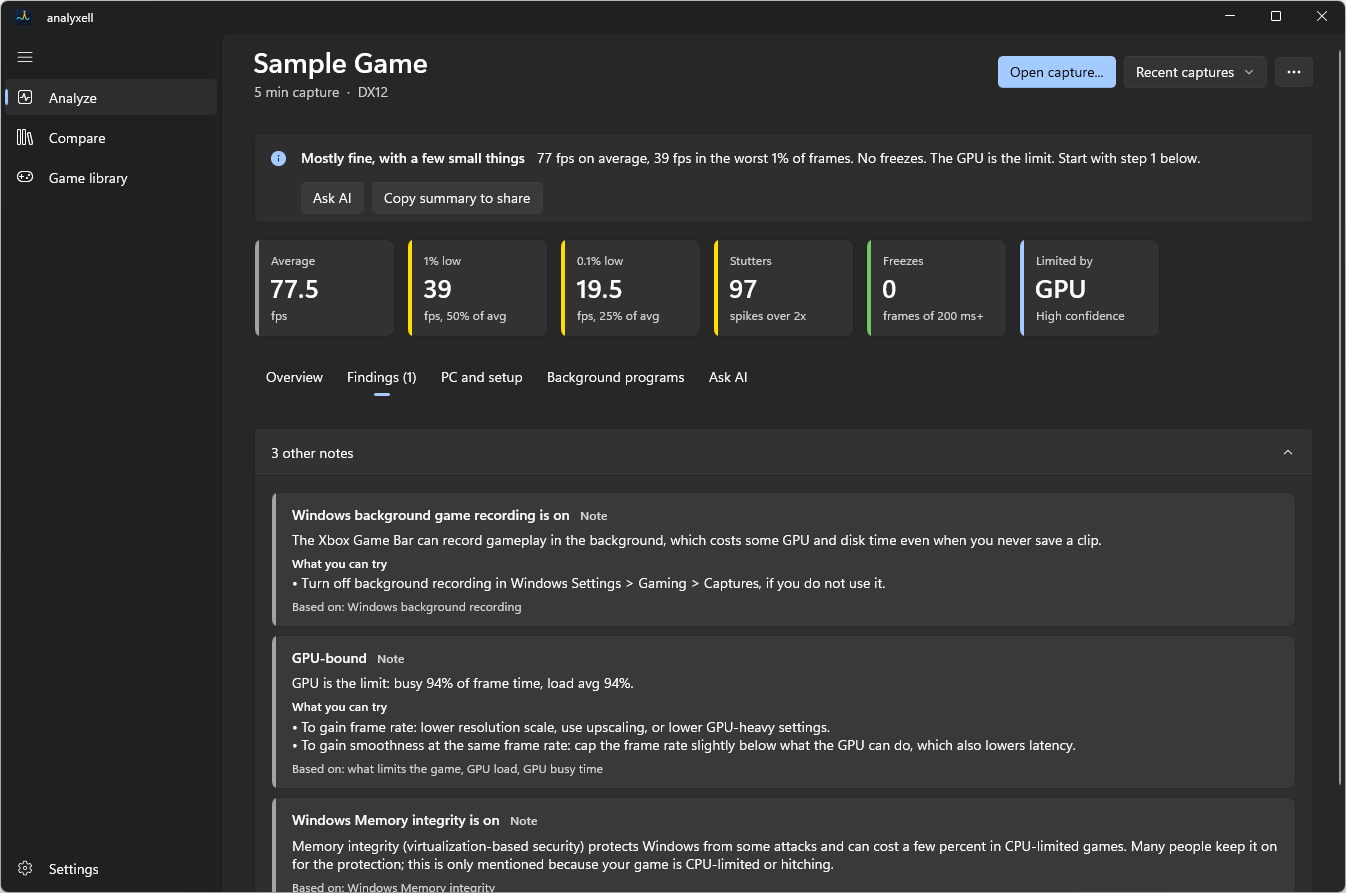
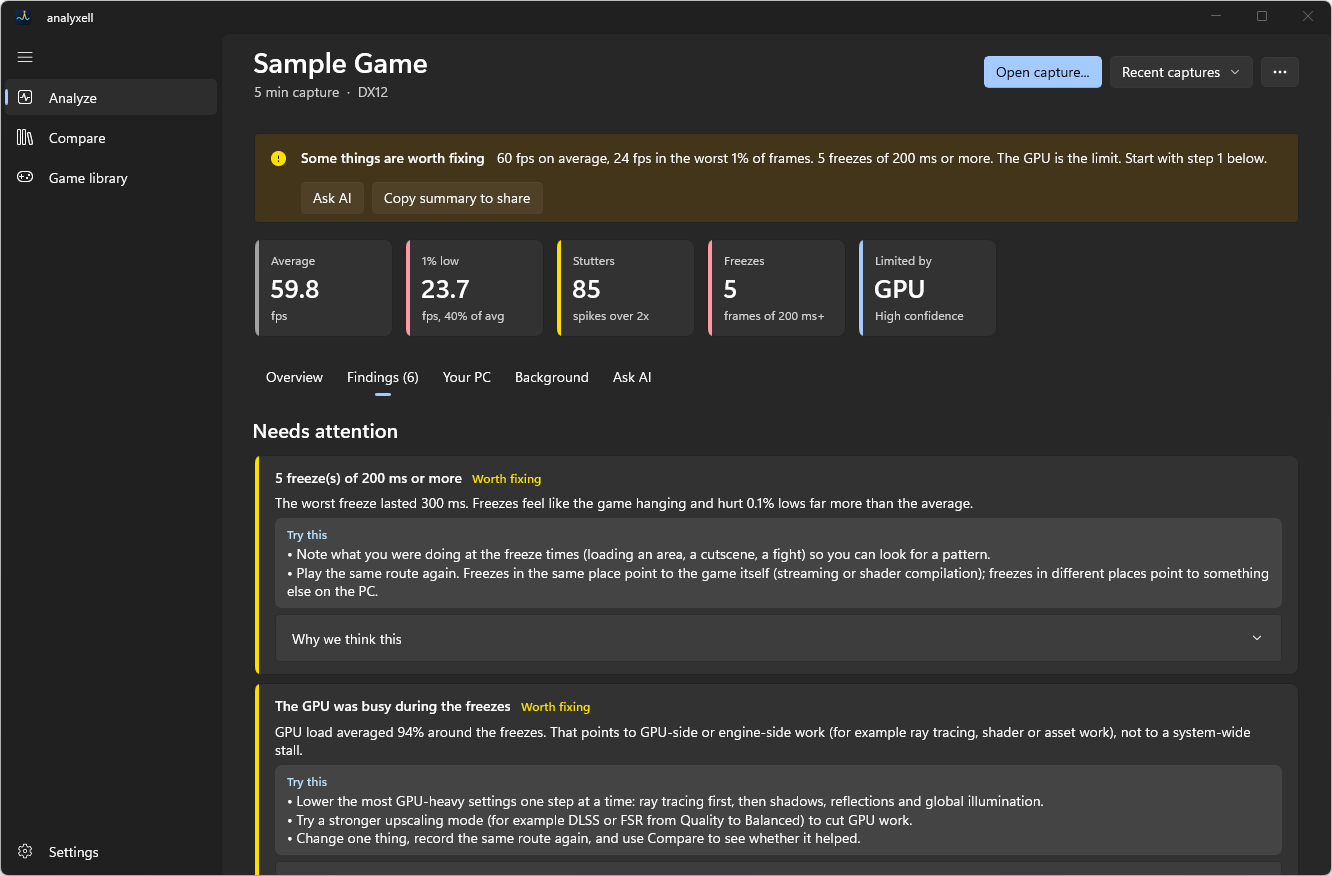
Release 1.1.0: calmer Analyze page, colour-coded Compare results
Overview shows one "Start here" step, drops the 0.1% low card, and shortens
tab names. Findings get a "Try this" box with evidence folded away. Compare's
Result column uses coloured icons and "For reference". Docs and screenshots
refreshed; UI smoke verdict check no longer depends on this PC's findings.

diff --git a/src/Analyxell/Pages/AnalyzePage.xaml b/src/Analyxell/Pages/AnalyzePage.xaml
@@ -63,15 +63,27 @@
                                 Foreground="{x:Bind svc:LevelBrushes.Label(Level), Mode=OneTime}" />
                         </StackPanel>
                         <TextBlock Text="{x:Bind Detail, Mode=OneTime}" TextWrapping="Wrap" />
-                        <StackPanel Spacing="2" Visibility="{x:Bind HasSuggestions, Mode=OneTime}">
-                            <TextBlock Text="What you can try" Style="{StaticResource CaptionTextBlockStyle}" FontWeight="SemiBold" />
-                            <TextBlock Text="{x:Bind Suggestions, Mode=OneTime}" TextWrapping="Wrap" />
-                        </StackPanel>
-                        <TextBlock
-                            Text="{x:Bind Evidence, Mode=OneTime}"
-                            TextWrapping="Wrap"
-                            Style="{StaticResource CaptionTextBlockStyle}"
-                            Foreground="{ThemeResource TextFillColorSecondaryBrush}" />
+                        <Border
+                            Visibility="{x:Bind HasSuggestions, Mode=OneTime}"
+                            Padding="12,8"
+                            CornerRadius="6"
+                            Background="{ThemeResource ControlFillColorSecondaryBrush}">
+                            <StackPanel Spacing="2">
+                                <TextBlock Text="Try this" Style="{StaticResource CaptionTextBlockStyle}" FontWeight="SemiBold" Foreground="{ThemeResource AccentTextFillColorPrimaryBrush}" />
+                                <TextBlock Text="{x:Bind Suggestions, Mode=OneTime}" TextWrapping="Wrap" />
+                            </StackPanel>
+                        </Border>
+                        <Expander
+                            Header="Why we think this"
+                            Padding="12,6"
+                            HorizontalAlignment="Stretch"
+                            HorizontalContentAlignment="Stretch">
+                            <TextBlock
+                                Text="{x:Bind Evidence, Mode=OneTime}"
+                                TextWrapping="Wrap"
+                                Style="{StaticResource CaptionTextBlockStyle}"
+                                Foreground="{ThemeResource TextFillColorSecondaryBrush}" />
+                        </Expander>
                     </StackPanel>
                 </Grid>
             </Border>
@@ -293,8 +305,8 @@
                 <SelectorBar x:Name="Tabs" AutomationProperties.AutomationId="AnalyzeTabs" SelectionChanged="Tabs_SelectionChanged">
                     <SelectorBarItem x:Name="TabOverview" AutomationProperties.AutomationId="TabOverview" Text="Overview" Tag="Overview" IsSelected="True" />
                     <SelectorBarItem x:Name="TabFindings" AutomationProperties.AutomationId="TabFindings" Text="Findings" Tag="Findings" />
-                    <SelectorBarItem x:Name="TabPc" AutomationProperties.AutomationId="TabPc" Text="PC and setup" Tag="Pc" />
-                    <SelectorBarItem x:Name="TabBackground" AutomationProperties.AutomationId="TabBackground" Text="Background programs" Tag="Background" />
+                    <SelectorBarItem x:Name="TabPc" AutomationProperties.AutomationId="TabPc" Text="Your PC" Tag="Pc" />
+                    <SelectorBarItem x:Name="TabBackground" AutomationProperties.AutomationId="TabBackground" Text="Background" Tag="Background" />
                     <SelectorBarItem x:Name="TabAi" AutomationProperties.AutomationId="TabAi" Text="Ask AI" Tag="Ai" />
                 </SelectorBar>
 
@@ -310,12 +322,12 @@
                         BorderBrush="{ThemeResource CardStrokeColorDefaultBrush}"
                         BorderThickness="1">
                         <StackPanel Spacing="10">
-                            <TextBlock Text="What you can do" Style="{StaticResource SubtitleTextBlockStyle}" />
+                            <TextBlock Text="Start here" Style="{StaticResource SubtitleTextBlockStyle}" />
                             <TextBlock
                                 TextWrapping="Wrap"
                                 Style="{StaticResource CaptionTextBlockStyle}"
                                 Foreground="{ThemeResource TextFillColorSecondaryBrush}"
-                                Text="Most important first. Try one at a time, record the same route again, then use Compare." />
+                                Text="The most useful thing to try first. Then record the same route again and use Compare." />
                             <ItemsControl ItemsSource="{x:Bind ViewModel.TopSteps, Mode=OneWay}" ItemTemplate="{StaticResource NextStepTemplate}" />
                             <Expander
                                 AutomationProperties.AutomationId="MoreStepsExpander"

diff --git a/src/Analyxell/Pages/ComparePage.xaml b/src/Analyxell/Pages/ComparePage.xaml
@@ -84,7 +84,7 @@
                                 <ColumnDefinition Width="*" />
                                 <ColumnDefinition Width="*" />
                                 <ColumnDefinition Width="1.4*" />
-                                <ColumnDefinition Width="Auto" MinWidth="90" />
+                                <ColumnDefinition Width="Auto" MinWidth="120" />
                             </Grid.ColumnDefinitions>
                             <TextBlock Text="Measure" Style="{StaticResource CaptionTextBlockStyle}" Foreground="{ThemeResource TextFillColorSecondaryBrush}" />
                             <TextBlock Grid.Column="1" Text="A" Style="{StaticResource CaptionTextBlockStyle}" Foreground="{ThemeResource TextFillColorSecondaryBrush}" />
@@ -101,13 +101,16 @@
                                             <ColumnDefinition Width="*" />
                                             <ColumnDefinition Width="*" />
                                             <ColumnDefinition Width="1.4*" />
-                                            <ColumnDefinition Width="Auto" MinWidth="90" />
+                                            <ColumnDefinition Width="Auto" MinWidth="120" />
                                         </Grid.ColumnDefinitions>
                                         <TextBlock Text="{x:Bind Label, Mode=OneTime}" />
                                         <TextBlock Grid.Column="1" Text="{x:Bind A, Mode=OneTime}" />
                                         <TextBlock Grid.Column="2" Text="{x:Bind B, Mode=OneTime}" />
                                         <TextBlock Grid.Column="3" Text="{x:Bind Delta, Mode=OneTime}" />
-                                        <TextBlock Grid.Column="4" Text="{x:Bind Verdict, Mode=OneTime}" />
+                                        <StackPanel Grid.Column="4" Orientation="Horizontal" Spacing="6" VerticalAlignment="Center">
+                                            <FontIcon Glyph="{x:Bind Glyph, Mode=OneTime}" FontSize="14" Foreground="{x:Bind svc:LevelBrushes.Label(Level), Mode=OneTime}" />
+                                            <TextBlock Text="{x:Bind Verdict, Mode=OneTime}" FontWeight="SemiBold" Foreground="{x:Bind svc:LevelBrushes.Label(Level), Mode=OneTime}" />
+                                        </StackPanel>
                                     </Grid>
                                 </DataTemplate>
                             </ItemsControl.ItemTemplate>

diff --git a/src/Analyxell/ViewModels/AnalyzeViewModel.cs b/src/Analyxell/ViewModels/AnalyzeViewModel.cs
@@ -482,7 +482,6 @@ public sealed partial class AnalyzeViewModel : ObservableObject
 
         var minutes = Math.Max(m.DurationSec / 60, 0.1);
         Cards.Add(new MetricItem("1% low", F(m.Low1AverageFps), $"fps, {Share(m.Low1AverageFps, m.AverageFps)}", LowLevel(m.Low1AverageFps, m.AverageFps, 30, 45, 0.4, 0.6)));
-        Cards.Add(new MetricItem("0.1% low", F(m.Low01AverageFps), $"fps, {Share(m.Low01AverageFps, m.AverageFps)}", LowLevel(m.Low01AverageFps, m.AverageFps, 15, 25, 0.2, 0.4)));
         Cards.Add(new MetricItem("Stutters", r.Stutters.Count.ToString(CultureInfo.InvariantCulture), "spikes over 2x", r.Stutters.Count == 0 ? MetricLevel.Good : r.Stutters.Count / minutes > 30 ? MetricLevel.Bad : MetricLevel.Warning));
         Cards.Add(new MetricItem("Freezes", r.Freezes.Count.ToString(CultureInfo.InvariantCulture), "frames of 200 ms+", r.Freezes.Count == 0 ? MetricLevel.Good : r.Freezes.Count < 3 ? MetricLevel.Warning : MetricLevel.Bad));
         Cards.Add(new MetricItem("Limited by", Verdict(r.Bottleneck.Verdict), $"{r.Bottleneck.Confidence} confidence", MetricLevel.Focus));
@@ -510,7 +509,7 @@ public sealed partial class AnalyzeViewModel : ObservableObject
         MoreSteps.Clear();
         foreach (var s in r.NextSteps)
         {
-            (TopSteps.Count < 3 ? TopSteps : MoreSteps).Add(new NextStepItem(s.Order.ToString(CultureInfo.InvariantCulture), s.Text, s.FindingTitle, CanTry: capture.ProcessName.Length > 0));
+            (TopSteps.Count < 1 ? TopSteps : MoreSteps).Add(new NextStepItem(s.Order.ToString(CultureInfo.InvariantCulture), s.Text, s.FindingTitle, CanTry: capture.ProcessName.Length > 0));
         }
 
         MoreStepsHeader = MoreSteps.Count == 1 ? "Show 1 more step" : $"Show {MoreSteps.Count} more steps";

diff --git a/src/Analyxell/ViewModels/CompareViewModel.cs b/src/Analyxell/ViewModels/CompareViewModel.cs
@@ -10,7 +10,7 @@ using Microsoft.UI.Xaml.Controls;
 
 namespace Analyxell.ViewModels;
 
-public sealed record CompareRowItem(string Label, string A, string B, string Delta, string Glyph, string Verdict);
+public sealed record CompareRowItem(string Label, string A, string B, string Delta, string Glyph, string Verdict, MetricLevel Level);
 
 public sealed partial class CompareViewModel : ObservableObject
 {
@@ -181,10 +181,13 @@ public sealed partial class CompareViewModel : ObservableObject
                 Fmt(row.A, row.Unit),
                 Fmt(row.B, row.Unit),
                 DeltaText(row),
-                string.Empty,
+                row.HigherIsBetter is null ? "" : row.Improved switch { true => "", false => "", _ => "" },
                 row.HigherIsBetter is null
-                    ? "Context"
-                    : row.Improved switch { true => "\u25B2 Better", false => "\u25BC Worse", _ => "= Same" }));
+                    ? "For reference"
+                    : row.Improved switch { true => "Better", false => "Worse", _ => "Same" },
+                row.HigherIsBetter is null
+                    ? MetricLevel.Neutral
+                    : row.Improved switch { true => MetricLevel.Good, false => MetricLevel.Bad, _ => MetricLevel.Neutral }));
         }
 
         if (cmp.Changes.Count > 0)

diff --git a/docs/user-guide.md b/docs/user-guide.md
@@ -32,26 +32,26 @@ The page leads with a one-line **verdict** (healthy, worth fixing, serious probl
 
 **Above the cards** you may see: a **capture quality** warning (too short, frame-capped, idle, windowed or no sensors); a note about a change you are trying; and "A newer capture was recorded" with an **Open it** button. **Copy summary to share** puts a short, anonymised summary on the clipboard.
 
-**Trying a change.** Under **What you can do**, press **I'll try this and check if it helped** on a step. Make the change, record the same route again, and open the new capture: analyxell compares it with the one you tried it on and says whether it helped. One change at a time makes the answer meaningful; differences of a few percent are normal run-to-run variation, and it says so.
+**Trying a change.** Under **Start here**, press **I'll try this and check if it helped** on a step. Make the change, record the same route again, and open the new capture: analyxell compares it with the one you tried it on and says whether it helped. One change at a time makes the answer meaningful; differences of a few percent are normal run-to-run variation, and it says so.
 
 **Overview tab**
 
 - **Ask AI bar.** One line and a button. Pressing **Ask AI** jumps to the Ask AI tab so you can watch it work.
 - **The chart.** Pick a view: frame time, FPS, GPU and CPU load, temperatures, clock speeds, memory, power or latency (only the views your capture has data for). Under the chart, switch markers on or off (freezes, stutters, FPS drops, dropped frames, tearing possible). Press a line's name in the legend to hide or show it. Hover to read exact values. For frame time and FPS the white line is a one-second average, and extreme spikes are clipped so one huge freeze does not flatten everything else.
-- **What you can do.** The three most valuable things to try, most important first; **Show more steps** has the rest. Try one at a time, record the same route again, and use **Compare**.
+- **Start here.** The single most valuable thing to try; **Show more steps** has the rest, most important first. Try one at a time, record the same route again, and use **Compare**.
 
 **Ask AI tab.** The full AI panel; see below.
 
-**Findings tab.** What needs attention comes first, each with the measurements behind it ("Based on: ...") and **What you can try**. Blue is information, yellow is worth a look, red is serious. Lower-priority notes are folded into **other notes** (opened for you when nothing else needs attention). The tab title shows how many things need a look. These come from fixed rules, not an AI; see [Diagnostic rules](rules.md).
+**Findings tab.** What needs attention comes first, each with a plain explanation and a **Try this** box. **Why we think this** opens the measurements behind it. Blue is information, yellow is worth a look, red is serious. Lower-priority notes are folded into **other notes** (opened for you when nothing else needs attention). The tab title shows how many things need a look. These come from fixed rules, not an AI; see [Diagnostic rules](rules.md).
 
-**PC and setup tab.**
+**Your PC tab.**
 
 - **This PC.** Your GPU, CPU, memory and resolution, then the full picture: graphics (driver, video memory, clocks, power, temperatures, Resizable BAR), processor (cores, boost clock), memory, display (refresh range, variable refresh), motherboard and Windows settings, and the drive the game is installed on. The motherboard is shown here only; it is never sent to an AI.
 - **Game settings** (when analyxell can read them) and **Help analyxell know more**: things a capture cannot show. All optional, all kept on this PC:
   - **Add game settings...** For games analyxell cannot read by itself: type or paste them (JSON, `key=value` or `key: value` lines), or let your own AI pull the graphics settings out of the game's config file. For the AI route, likely secrets and your user name are removed first, you see exactly what is sent, and the app keeps only settings whose names and values really appear in the file. Settings are shown as the game's own raw values, never guessed into friendly names. Settings belong to the capture they were entered or read for: if the game's config file was saved after a capture was recorded, analyxell does not assume it matches, and asks you.
   - **Edit PC setup...** (also the **PC setup...** button in the page header.) Tell analyxell what it cannot read: G-SYNC/FreeSync state, VSync, Reflex or low-latency mode, frame cap, driver shader cache size, GPU power mode, your monitor, and where the game is installed. The install folder lets it find out whether the game is on an SSD or a hard disk, NVMe or SATA, and how full the drive is. Answers are used as given and never verified.
 
-**Background programs tab.** A capture cannot show which other programs were running. Press **Check background programs (10 s)** to sample your PC right now: which programs use CPU, disk and GPU, and which well-known troublemakers are open (overlays, recorders, browsers, launchers, cloud sync, security scans, vendor software, virtual machines). For the best result start the game, idle in a menu, switch back and run it. It only reads. The result reflects that moment, not necessarily the captured session.
+**Background tab.** A capture cannot show which other programs were running. Press **Check background programs (10 s)** to sample your PC right now: which programs use CPU, disk and GPU, and which well-known troublemakers are open (overlays, recorders, browsers, launchers, cloud sync, security scans, vendor software, virtual machines). For the best result start the game, idle in a menu, switch back and run it. It only reads. The result reflects that moment, not necessarily the captured session.
 
 **Header buttons.** **Open capture...**, **Recent captures**, **PC setup...**, **Open CapFrameX** (or **Get CapFrameX** if it is not installed) and **Export report...**.
 
@@ -59,7 +59,7 @@ The page leads with a one-line **verdict** (healthy, worth fixing, serious probl
 
 **Game library** lists the games analyxell knows, in two plain groups: **Your games** (built in, opened in a capture, or added by you) and **Installed on this PC** (found through Steam, Epic Games and GOG on any drive, with no capture opened yet). It reads only those launchers' manifest files and never searches your drives. Any game can be diagnosed from a capture; setting a game up only makes the findings and the AI more accurate for it.
 
-Nothing needs adding. Every game has one button, **Set up...**, which opens the same three optional steps wherever you start it (the library, or **Set up this game...** on the Analyze page's PC and setup tab):
+Nothing needs adding. Every game has one button, **Set up...**, which opens the same three optional steps wherever you start it (the library, or **Set up this game...** on the Analyze page's Your PC tab):
 
 1. **Where the game is installed.** Found automatically for Steam games; choose a folder if not. It tells analyxell what kind of drive the game runs from.
 2. **What the game offers.** An online lookup on PCGamingWiki that you start: it sends only the game's name, and shows you what it found (where the settings file is, and which upscaling, frame generation and VSync options the game has) before you press **Use this**.
@@ -83,7 +83,7 @@ The answer ranks the likely causes for your data, with confidence, things to try
 
 ## Comparing two runs
 
-Pick the earlier run as **A** and the later one as **B** (load captures with the buttons, or from the Analyze page). The table shows each measure, the change, and whether B is better. The chart overlays both runs: A in yellow, B in blue, with bold one-second averages over faint per-frame lines. Use the picker to switch between frame time, FPS and (when both captures have them) GPU load, temperature, clock, video memory, power and latency. *Context* rows (GPU load, VRAM, temperature) are shown for information and are not scored. Change **one thing per run** so the result means something. The AI panel works here too.
+Pick the earlier run as **A** and the later one as **B** (load captures with the buttons, or from the Analyze page). The table shows each measure, the change, and whether B is better. The chart overlays both runs: A in yellow, B in blue, with bold one-second averages over faint per-frame lines. Use the picker to switch between frame time, FPS and (when both captures have them) GPU load, temperature, clock, video memory, power and latency. The **Result** column is colour-coded: green ↑ **Better**, red ↓ **Worse**. Rows marked **For reference** (GPU load, VRAM, temperature) are shown for information and are not scored. Change **one thing per run** so the result means something. The AI panel works here too.
 
 ## Exporting a report
 

diff --git a/README.md b/README.md
@@ -9,14 +9,14 @@
   Open a <a href="https://github.com/CXWorld/CapFrameX">CapFrameX</a> capture, see what happened, and get a plain-language explanation you can trust.
 </p>
 
-> **Status: 1.0.0.** The app works and is tested, but it has not been tried on many PCs yet, so please report what breaks.
+> **Status: 1.1.0.** The app works and is tested, but it has not been tried on many PCs yet, so please report what breaks.
 
 ## What it does
 
 You played a game and it stuttered. A capture tells you *that* it did; analyxell helps you work out *why*.
 
 - **Analyze a capture.** Average FPS, 1% and 0.1% lows, stutters, freezes, and whether the GPU or CPU is the limit. Charts for frame time, FPS, load, temperatures, clocks, memory, power and latency, with every freeze marked.
-- **Tell you what to do.** Findings cite the exact measurements behind them and come with concrete things to try, ranked in a "What you can do" list. It covers freezes, low FPS, heat, memory and VRAM pressure, tearing conditions, latency, pacing, and more ([the rules](docs/rules.md)). No AI needed.
+- **Tell you what to do.** Findings cite the exact measurements behind them and come with concrete things to try, starting with a single "Start here" step. It covers freezes, low FPS, heat, memory and VRAM pressure, tearing conditions, latency, pacing, and more ([the rules](docs/rules.md)). No AI needed.
 - **Look beyond the capture.** The PC's specs, which drive the game is on (SSD or HDD, NVMe or SATA, how full), Windows gaming settings, the GPU shader cache, and which other programs are competing for CPU, disk and GPU.
 - **Open or get CapFrameX.** It detects whether CapFrameX is installed, opens it for you, or sends you to the official download page.
 - **Compare two runs.** Changed a setting? See, measure by measure, whether it helped.
@@ -52,7 +52,7 @@ Requires Windows 10 (1809) or newer, x64. Nothing else needs to be installed.
 
 1. Record a gameplay session with CapFrameX (it saves a `.json` capture).
 2. Start analyxell and drop the capture on the window, or choose **Open capture...**.
-3. Read the verdict at the top, then **What you can do**. For an AI explanation open the **Ask AI** tab, check **Preview exactly what will be sent**, then press **Ask AI**.
+3. Read the verdict at the top, then **Start here**. For an AI explanation open the **Ask AI** tab, check **Preview exactly what will be sent**, then press **Ask AI**.
 4. Change one setting in the game, record again, and use **Compare** to see if it helped.
 
 More in the [user guide](docs/user-guide.md).

diff --git a/docs/bdr/0009-ai-is-optional.md b/docs/bdr/0009-ai-is-optional.md
@@ -9,7 +9,7 @@ AI is the headline feature, but not everyone wants to connect one: some distrust
 
 ## Decision
 
-- AI is **off until the user turns it on** and configures an endpoint and a model. Without it, the app is fully useful: analysis, findings with suggestions, a ranked "What you can do" list, comparison, system and background checks.
+- AI is **off until the user turns it on** and configures an endpoint and a model. Without it, the app is fully useful: analysis, findings with suggestions, a ranked "Start here" list, comparison, system and background checks.
 - The AI panel stays the most prominent part of the page, and says plainly that AI is optional. It offers two routes: **connect an AI** (Set up AI) or **export an analysis pack** for the user's own AI.
 - The export pack is a single file: instructions, the exact measured data, and how to check the answer. It contains the same facts the built-in AI would see and nothing else.
 - Settings explain the API key honestly, including its limits, and offer "memory only" so no key is ever written to disk.

diff --git a/docs/bdr/0010-tell-people-what-to-do.md b/docs/bdr/0010-tell-people-what-to-do.md
@@ -9,7 +9,7 @@ A list of problems leaves a non-expert stuck. The most valuable thing a diagnosi
 
 ## Decision
 
-Every finding above Info comes with concrete suggestions, and the page leads with a ranked "What you can do" list. Suggestions are limited to in-game settings and simple, reversible checks, are phrased as things to try, and always point back to the verification loop: change one thing, record again, Compare. The app also looks for causes outside the capture (drive type, Windows settings, background programs, display setup) because many real fixes live there.
+Every finding above Info comes with concrete suggestions, and the page leads with a ranked "Start here" step. Suggestions are limited to in-game settings and simple, reversible checks, are phrased as things to try, and always point back to the verification loop: change one thing, record again, Compare. The app also looks for causes outside the capture (drive type, Windows settings, background programs, display setup) because many real fixes live there.
 
 ## Consequences
 

diff --git a/CHANGELOG.md b/CHANGELOG.md
@@ -4,6 +4,18 @@ All notable changes are recorded here. The format follows [Keep a Changelog](htt
 
 ## [Unreleased]
 
+## [1.1.0] - 2026-10-31
+
+A calmer Analyze page, and a clearer Compare result.
+
+### Changed
+
+- **Overview shows one step, not three.** The card is now "Start here" with the single most important step; the rest are behind "Show more steps".
+- **Fewer numbers up top.** The 0.1% low card is gone from the Analyze page (it is still in Compare and in reports).
+- **Findings are easier to scan.** Each finding is a headline, an explanation and a highlighted "Try this" box. The measurements behind it are folded into "Why we think this".
+- **Shorter tab names:** "Your PC" and "Background".
+- **Compare results are colour-coded.** The Result column has icons and colours: green Better, red Worse. Rows that are not scored say "For reference" instead of "Context".
+
 ## [1.0.0] - 2026-10-31
 
 First stable release. Same features as 0.3.1; the repository is now public.
